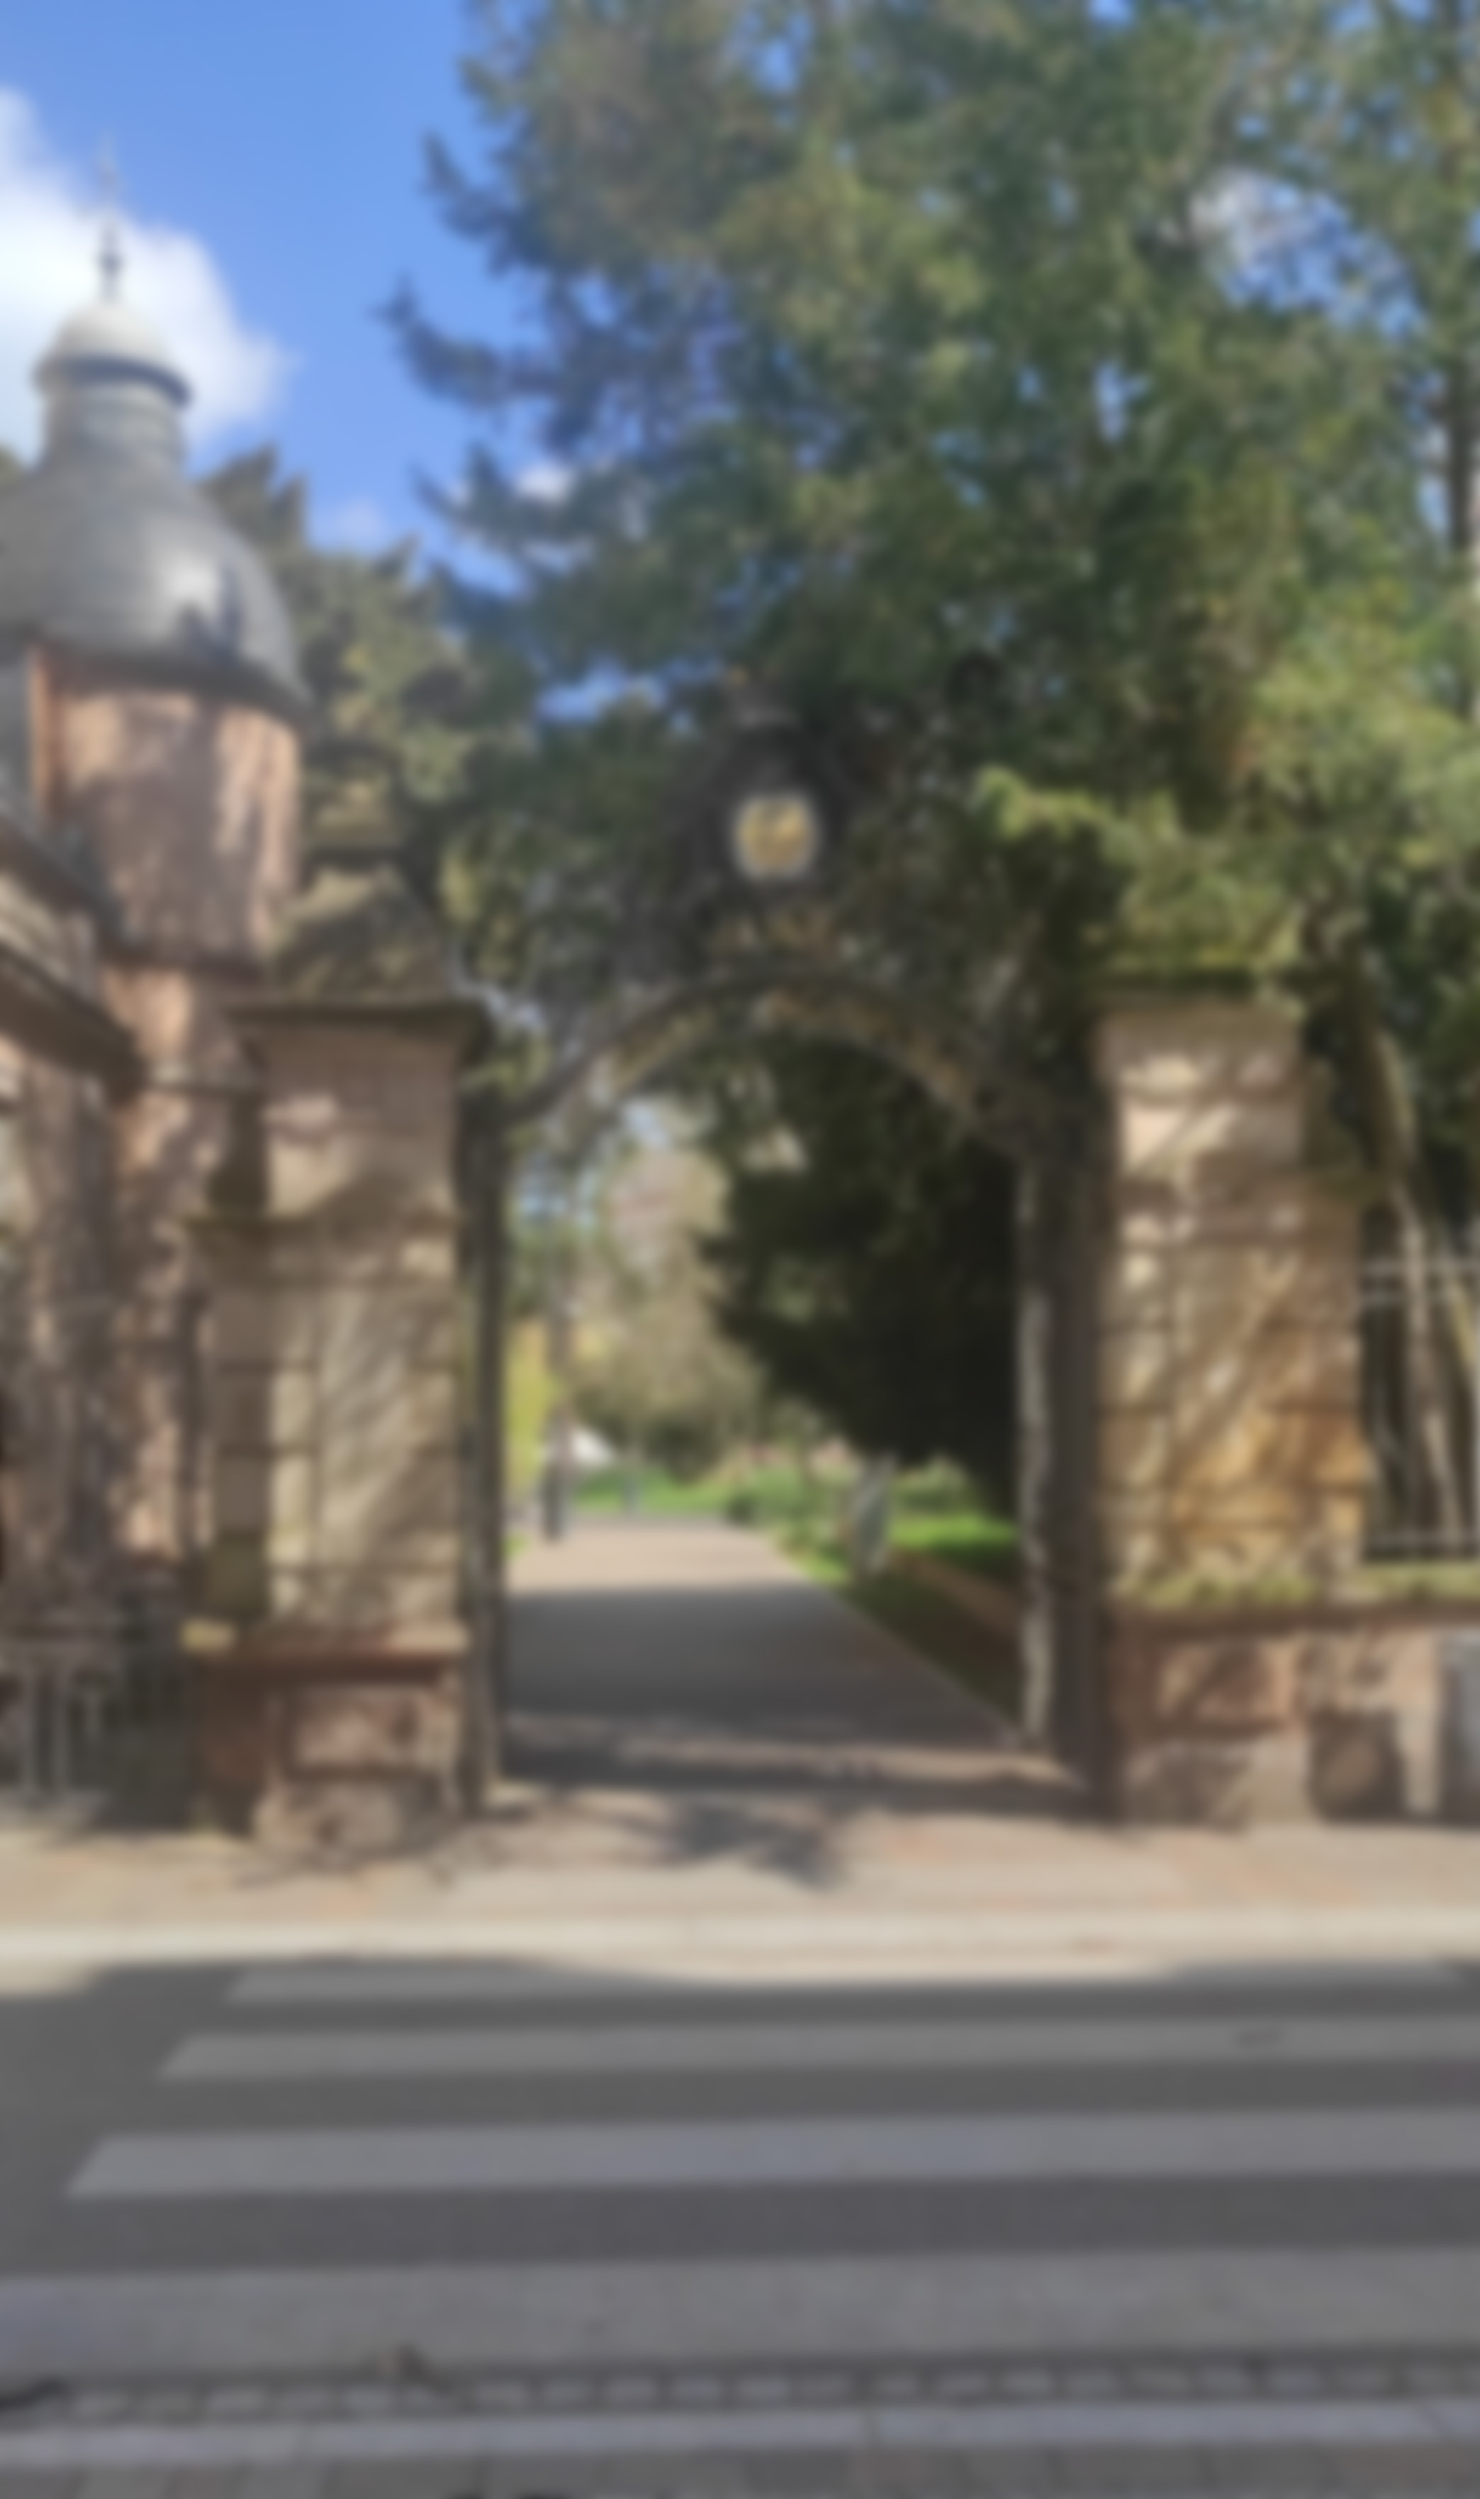
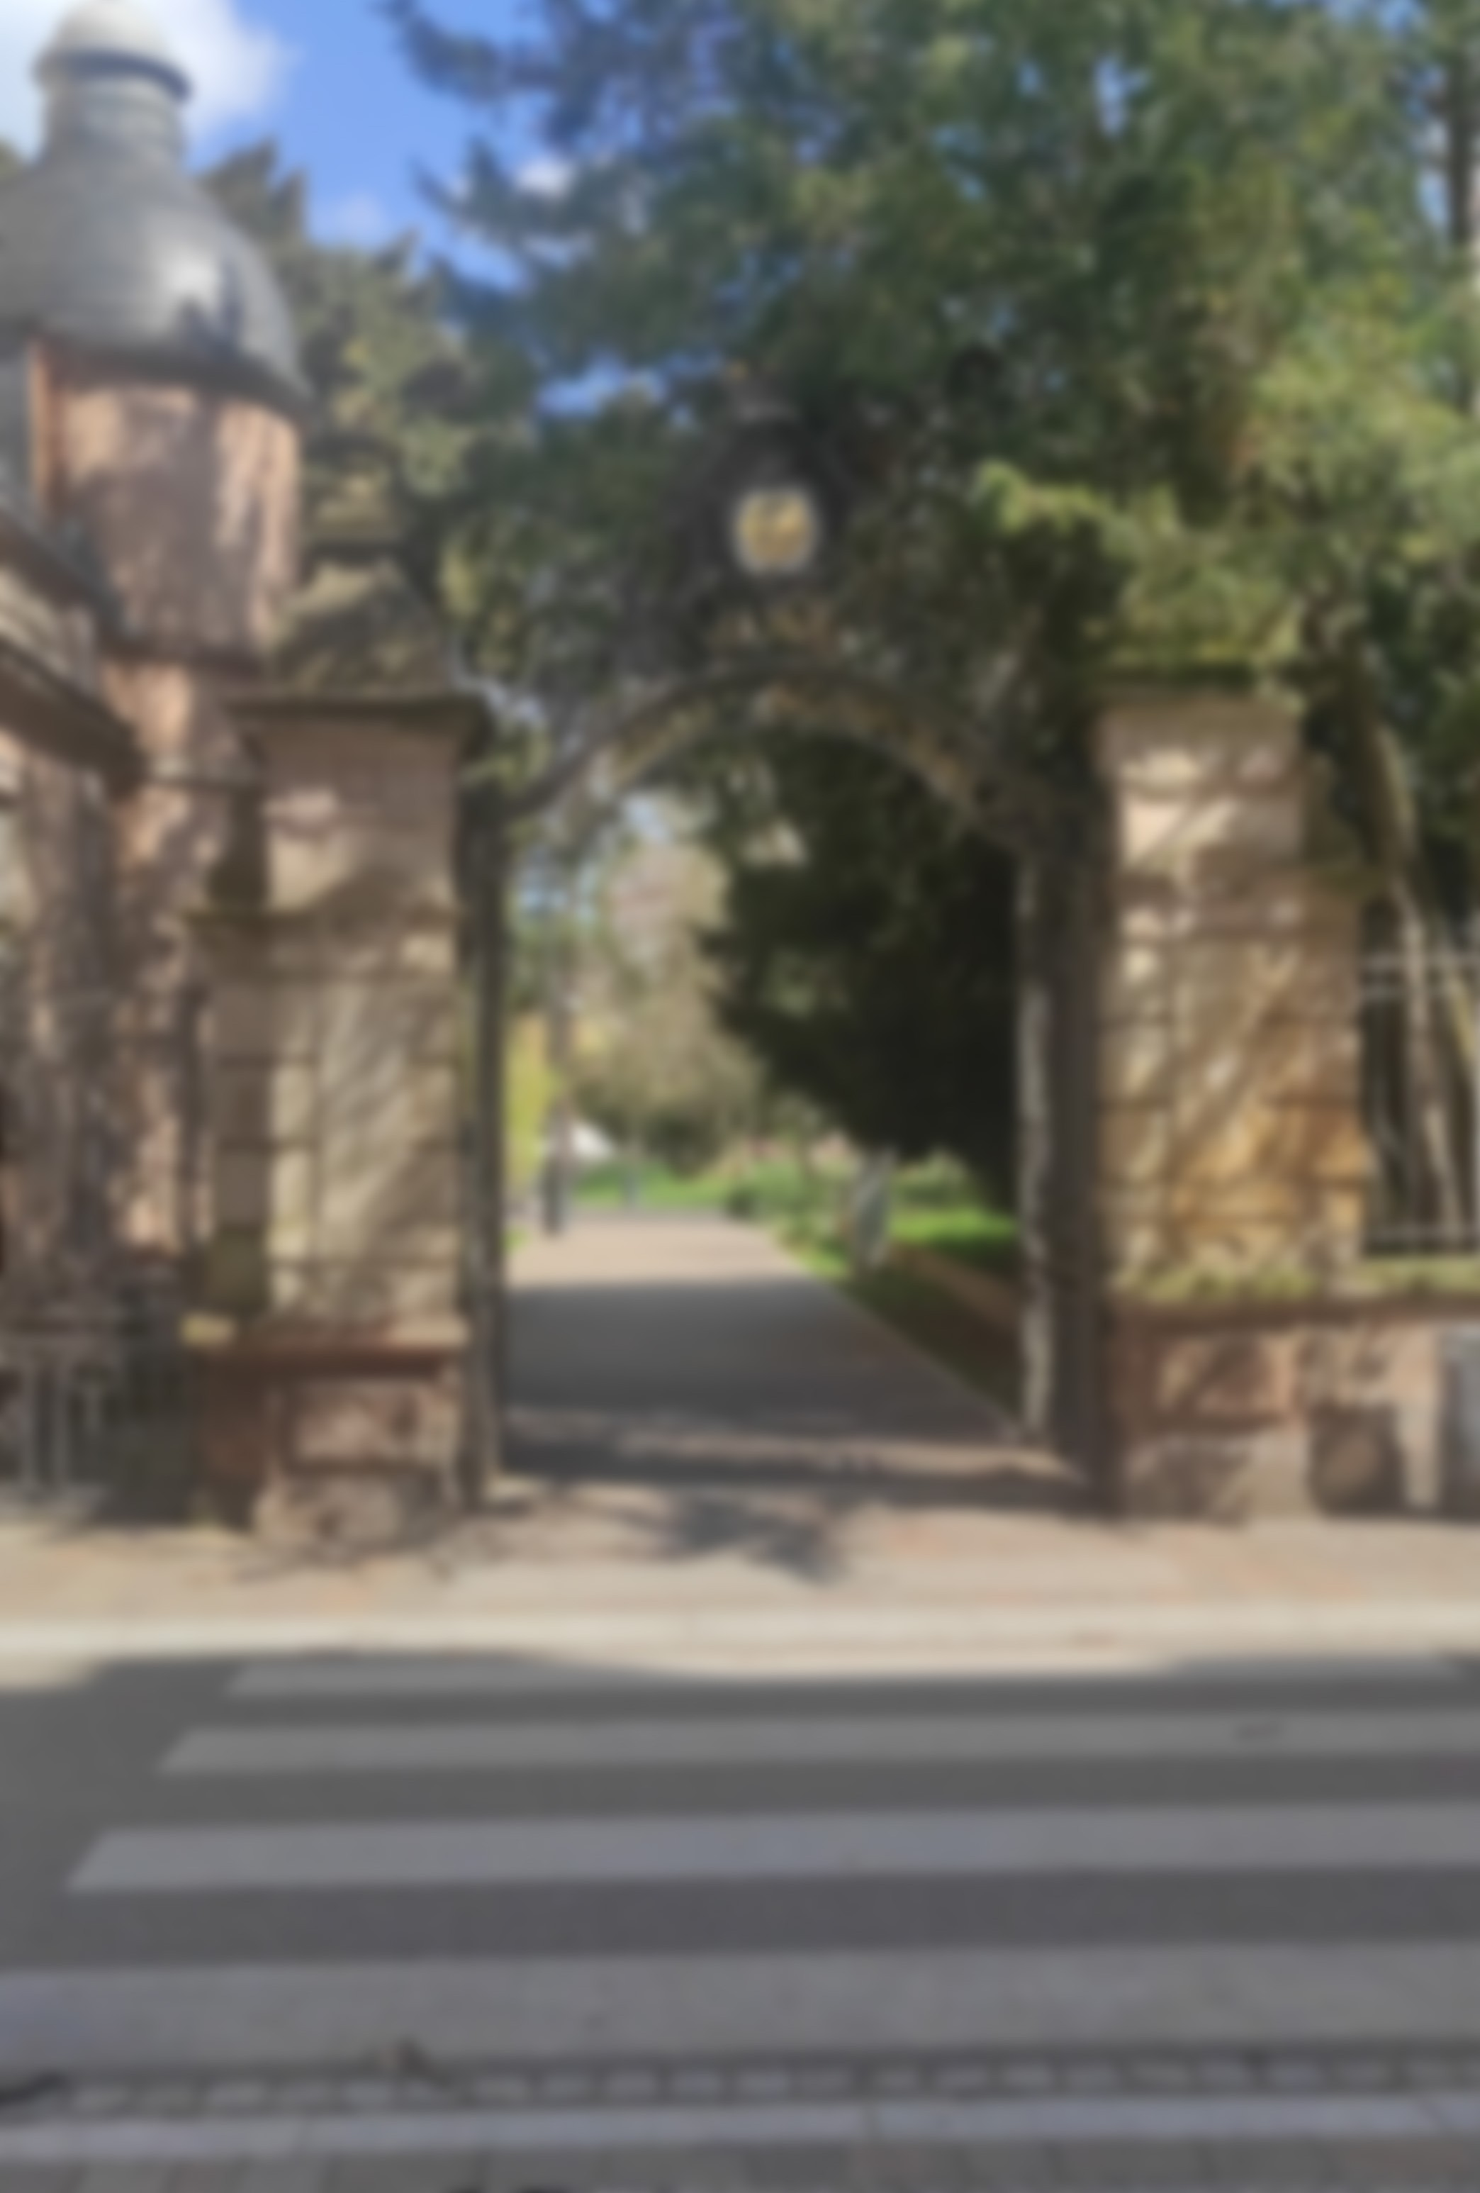
Autres changements

diff --git a/jeux/jeu2.html b/jeux/jeu2.html
@@ -12,7 +12,7 @@
         font-family: Arial, Helvetica, sans-serif;
       }
       .image-fond {
-        background-image: url("../img/siteImg/fondmussée.jpg");
+        background-image: url("../img/siteImg/fondportail.jpg");
         background-size: cover;
         background-position: center;
       }
@@ -91,28 +91,32 @@
     <link rel="stylesheet" media="screen" href="../styles/styleJeu2.css" />
   </head>
   <body>
-    <div class="mapContain">
+    <!-- <div class="mapContain">
       <div id="map"></div>
-    </div>
+    </div> -->
 
     <!-- div pour le début du jeu -->
-    <div class="flex image-fond" id="start">
+    <div class="flex image-fond startBackground">
       <div class="texte">
         <h3>Game N°2</h3>
-        <p>Putting art pieces in their place.</p>
+        <p>Dodge projectiles and shoot the thief.</p>
         <div class="start">Start</div>
       </div>
     </div>
 
-    <div class="winScreen invisible">
-      <div>You won !</div>
-      <div class="start">start again</div>
+    <div class="flex image-fond winScreen invisible">
+      <div class="texte">
+        <h3>You won !</h3>
+        <div class="start">Start again</div>
+      </div>
     </div>
 
-    <div class="loseScreen invisible">
-      <div>You lost...</div>
-      <div class="start">restart</div>
-    </div>
+    <div class="flex image-fond loseScreen invisible">
+        <div class="texte">
+          <h3>You lost...</h3>
+          <div class="start">Restart</div>
+        </div>
+      </div>
 
     <canvas id="score" class="invisible"></canvas>
 

diff --git a/js/jeu3.js b/js/jeu3.js
@@ -678,8 +678,8 @@ function afficher() {
     timeNow = performance.now();
     sec = (timeNow - time0) / 1000;
     time0 = timeNow;
-    playerSpeedx = 55 * sec;
-    playerSpeedy = 55 * sec;
+    playerSpeedx = 60 * sec;
+    playerSpeedy = 60 * sec;
     timeDefinition += 1;
   }
 
@@ -715,12 +715,11 @@ function WinCondition() {
     tableau4.length === 1
   ) {
     if (!isGameOver) {
-      isGameOver = true; // Marque le jeu comme terminé
-      isPaused = true; // Met le jeu en pause
-      clearInterval(chrono); // Arrête le timer
-      alert(
-        `Félicitations ! Vous avez terminé le jeu en ${secondes} secondes.`
-      );
+      isGameOver = true; 
+      isPaused = true;
+      clearInterval(chrono);
+      document.querySelector(".game").classList.add("invisible"); 
+      document.querySelector(".winScreen").classList.remove("invisible");
     }
   }
 }

diff --git a/jeux/jeu3.html b/jeux/jeu3.html
@@ -203,6 +203,13 @@
       <!-- div pour afficher le timer -->
       <div id="timer">0</div>
     </div>
+
+    <div class="flex image-fond winScreen invisible">
+      <div class="texte">
+        <h3>You won !</h3>
+        <div class="start">Start again</div>
+      </div>
+    </div>
     <script
       src="https://unpkg.com/leaflet@1.9.4/dist/leaflet.js"
       integrity="sha256-20nQCchB9co0qIjJZRGuk2/Z9VM+kNiyxNV1lvTlZBo="

diff --git a/styles/styleJeu2.css b/styles/styleJeu2.css
@@ -20,17 +20,3 @@ canvas
 {
     z-index: 1;
 }
-.winScreen
-{
-    z-index: 10;
-    background-color: rgba(200, 255, 200, 0.4);
-    text-align: center;
-    font-size: 30px;
-}
-.loseScreen
-{
-    z-index: 10;
-    background-color: rgba(255, 200, 200, 0.4);
-    text-align: center;
-    font-size: 30px;
-}
